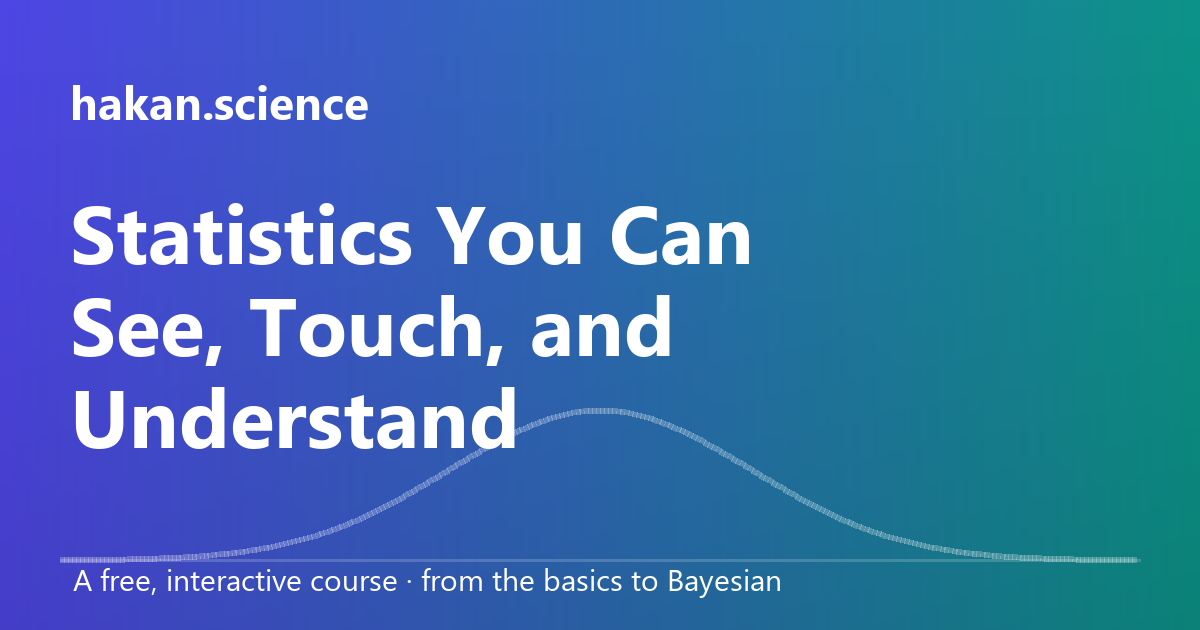
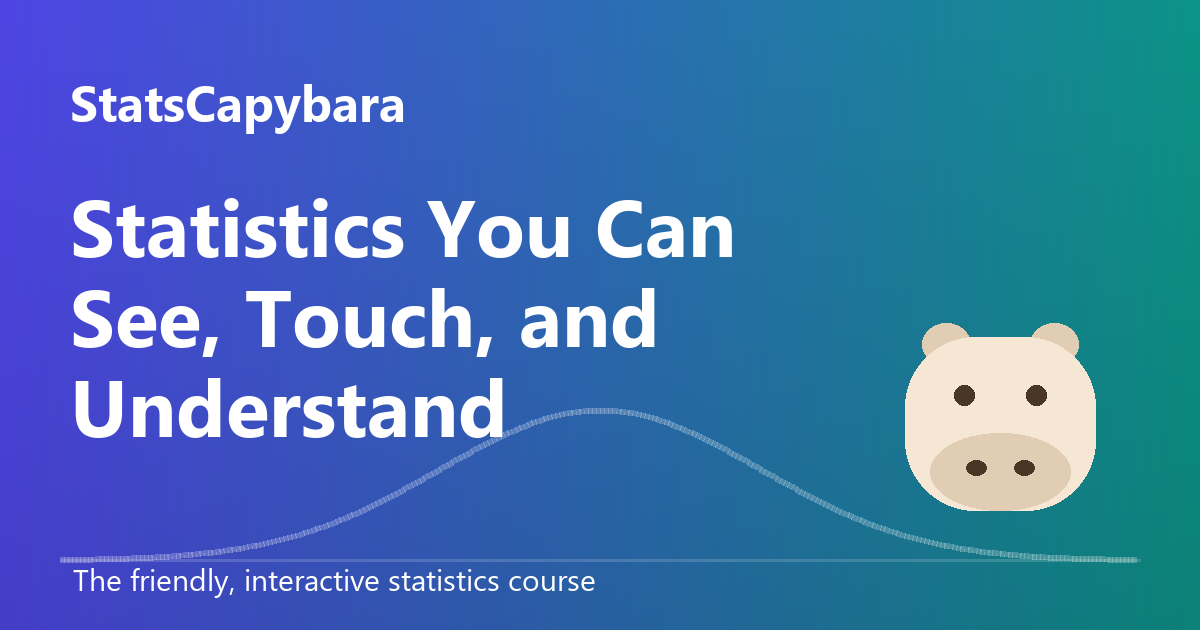
Rebrand to StatsCapybara: custom domain, mascot, interactive hero, Ko-fi
- Rename hakan.science -> StatsCapybara across all pages (titles, footers, OG/Twitter cards)
- CNAME for statscapybara.com; OG/Twitter absolute URLs -> https://statscapybara.com/
- Capybara mascot SVG logo in the nav brand; regenerated OG image with brand + capybara
- Homepage hero: brand eyebrow + approachable subheadline + a live bell curve with a bright
  orange 'Drag me to change the capybara population variance!' slider that warps in real time
- 'Buy me a coffee' Ko-fi button injected into every page's footer via site.js (lazy-loaded)

diff --git a/index.html b/index.html
@@ -3,18 +3,18 @@
 <head>
   <meta charset="utf-8" />
   <meta name="viewport" content="width=device-width, initial-scale=1" />
-  <title>hakan.science — Statistics You Can See, Touch, and Understand</title>
+  <title>StatsCapybara — Statistics You Can See, Touch, and Understand</title>
   <meta name="description" content="A free, interactive statistics course for people with no stats background. Learn by watching the ideas happen, not memorizing formulas." />
   <!-- Social share cards. If you move to a custom domain, update the absolute URLs below. -->
   <meta property="og:type" content="website" />
-  <meta property="og:title" content="hakan.science — Statistics You Can See, Touch, and Understand" />
+  <meta property="og:title" content="StatsCapybara — Statistics You Can See, Touch, and Understand" />
   <meta property="og:description" content="A free, interactive statistics course for visual learners — 38 hands-on lessons from the basics to Bayesian and multilevel models." />
-  <meta property="og:image" content="https://hkarsilar.github.io/Stats-Site-V1/assets/og.png" />
-  <meta property="og:url" content="https://hkarsilar.github.io/Stats-Site-V1/" />
+  <meta property="og:image" content="https://statscapybara.com/assets/og.png" />
+  <meta property="og:url" content="https://statscapybara.com/" />
   <meta name="twitter:card" content="summary_large_image" />
-  <meta name="twitter:title" content="hakan.science — Statistics You Can See, Touch, and Understand" />
+  <meta name="twitter:title" content="StatsCapybara — Statistics You Can See, Touch, and Understand" />
   <meta name="twitter:description" content="A free, interactive statistics course for visual learners — 38 hands-on lessons, basics to Bayesian." />
-  <meta name="twitter:image" content="https://hkarsilar.github.io/Stats-Site-V1/assets/og.png" />
+  <meta name="twitter:image" content="https://statscapybara.com/assets/og.png" />
   <link rel="icon" href="assets/favicon.ico" type="image/x-icon" />
   <link rel="stylesheet" href="assets/css/styles.css" />
   <!-- set theme before paint to avoid a flash -->
@@ -24,19 +24,36 @@
   <nav class="nav" id="nav"></nav>
 
   <main>
-    <!-- HERO (compact) -->
+    <!-- HERO -->
     <section class="hero" style="min-height:auto">
-      <div class="hero-inner animate-up" style="max-width:54rem;padding:3.25rem 1.5rem 2.25rem">
+      <div class="hero-inner animate-up" style="max-width:60rem;padding:2.25rem 1.5rem 1.75rem">
+        <p class="hero-eyebrow">
+          <svg viewBox="0 0 64 60" width="24" height="24" aria-hidden="true" style="vertical-align:-6px">
+            <ellipse cx="19" cy="15" rx="7" ry="6" fill="#9a6f43"/><ellipse cx="45" cy="15" rx="7" ry="6" fill="#9a6f43"/>
+            <rect x="9" y="14" width="46" height="40" rx="17" fill="#b3824f"/><ellipse cx="32" cy="44" rx="16" ry="12" fill="#9a6f43"/>
+            <circle cx="23" cy="31" r="2.7" fill="#3a2a1b"/><circle cx="41" cy="31" r="2.7" fill="#3a2a1b"/>
+            <ellipse cx="26.5" cy="45" rx="2.3" ry="1.6" fill="#3a2a1b"/><ellipse cx="37.5" cy="45" rx="2.3" ry="1.6" fill="#3a2a1b"/>
+          </svg>
+          Meet StatsCapybara — your chill guide to statistics
+        </p>
         <h1>Statistics You Can <span class="see">See</span>, <span class="touch">Touch</span>, and Understand</h1>
-        <p class="lead">A free, interactive course — <strong>38 hands-on lessons</strong> from the basics all the way to Bayesian and multilevel models. Don't just read the formulas; drag the sliders and watch the ideas happen.</p>
+        <p class="lead">The friendly stats course where every idea is a toy you can play with. No intimidating walls of formulas — just drag, poke, and watch it finally click. Go on, try it right now:</p>
+
+        <div class="hero-demo">
+          <canvas id="hero-bell"></canvas>
+          <div class="hero-slider">
+            <input type="range" id="var-slider" min="55" max="320" step="1" value="100" aria-label="capybara population variance" />
+            <label for="var-slider">Drag me to change the capybara population variance!</label>
+          </div>
+        </div>
+
         <div class="hero-cta">
-          <a class="btn btn-primary" href="stats-1/what-is-statistics/">
-            Start from the beginning
+          <a class="btn btn-primary" href="stats-1/what-is-statistics/">Start from the beginning
             <svg viewBox="0 0 24 24" fill="none" stroke="currentColor" stroke-width="2" stroke-linecap="round" stroke-linejoin="round"><line x1="5" y1="12" x2="19" y2="12"/><polyline points="12 5 19 12 12 19"/></svg>
           </a>
           <a class="btn btn-ghost" href="stats-1/central-limit-theorem/">Try a live demo</a>
         </div>
-        <p style="margin-top:1.6rem;font-size:.92rem;color:var(--text-muted)">4 courses · 38 interactive lessons · free forever, no sign-up</p>
+        <p style="margin-top:1.4rem;font-size:.92rem;color:var(--text-muted)">4 courses · 38 interactive lessons · free forever, no sign-up</p>
       </div>
     </section>
 
@@ -87,7 +104,7 @@
 
   <footer class="footer">
     <div class="container">
-      <span>© <span id="year"></span> Hakan Karsilar · hakan.science</span>
+      <span>© <span id="year"></span> Hakan Karsilar · StatsCapybara</span>
       <span>Made for visual learners.</span>
     </div>
   </footer>
@@ -95,5 +112,38 @@
   <script>document.getElementById('year').textContent = new Date().getFullYear();</script>
   <script src="assets/js/curriculum.js"></script>
   <script src="assets/js/site.js"></script>
+
+  <!-- ============ hero: live bell curve ============ -->
+  <script>
+  (function () {
+    var c = document.getElementById("hero-bell"); if (!c) return;
+    var slider = document.getElementById("var-slider"), ctx, W = 0, H = 230, sigma = 1;
+    function css(n) { return getComputedStyle(document.documentElement).getPropertyValue(n).trim(); }
+    function fit() { var r = window.devicePixelRatio || 1; W = c.clientWidth; c.width = W * r; c.height = H * r; c.style.height = H + "px"; ctx = c.getContext("2d"); ctx.setTransform(r, 0, 0, r, 0, 0); }
+    function draw() {
+      var lo = -4, hi = 4, baseY = H - 14, top = 16;
+      var maxPeak = 1 / (0.55 * Math.sqrt(2 * Math.PI));      // tallest possible (smallest sigma) sets the scale
+      var scale = (baseY - top) / maxPeak;
+      function pdf(x) { return Math.exp(-0.5 * x * x / (sigma * sigma)) / (sigma * Math.sqrt(2 * Math.PI)); }
+      ctx.clearRect(0, 0, W, H);
+      var grad = ctx.createLinearGradient(0, 0, W, 0);
+      grad.addColorStop(0, css("--primary")); grad.addColorStop(1, css("--secondary"));
+      // filled area
+      ctx.beginPath(); ctx.moveTo(0, baseY);
+      for (var px = 0; px <= W; px += 2) { var x = lo + (px / W) * (hi - lo); ctx.lineTo(px, baseY - pdf(x) * scale); }
+      ctx.lineTo(W, baseY); ctx.closePath(); ctx.globalAlpha = 0.18; ctx.fillStyle = grad; ctx.fill(); ctx.globalAlpha = 1;
+      // curve
+      ctx.beginPath();
+      for (var p2 = 0; p2 <= W; p2 += 2) { var xx = lo + (p2 / W) * (hi - lo); var y = baseY - pdf(xx) * scale; if (p2 === 0) ctx.moveTo(p2, y); else ctx.lineTo(p2, y); }
+      ctx.strokeStyle = css("--primary"); ctx.lineWidth = 3.5; ctx.lineJoin = "round"; ctx.stroke();
+      // baseline
+      ctx.strokeStyle = css("--border"); ctx.lineWidth = 1; ctx.beginPath(); ctx.moveTo(0, baseY + 0.5); ctx.lineTo(W, baseY + 0.5); ctx.stroke();
+    }
+    slider.addEventListener("input", function () { sigma = +slider.value / 100; draw(); });
+    window.addEventListener("resize", function () { fit(); draw(); });
+    new MutationObserver(draw).observe(document.documentElement, { attributes: true, attributeFilter: ["data-theme"] });
+    fit(); draw();
+  })();
+  </script>
 </body>
 </html>

diff --git a/assets/js/site.js b/assets/js/site.js
@@ -12,6 +12,18 @@
      matter what the repo/folder is named or how deep it's hosted. */
   var BASE = (document.body && document.body.getAttribute("data-section")) ? "../../" : "";
 
+  /* ---------- mascot ---------- */
+  function capy(size) {
+    var s = size || 26;
+    return '<svg viewBox="0 0 64 60" width="' + s + '" height="' + s + '" aria-hidden="true" style="vertical-align:-6px;flex-shrink:0">' +
+      '<ellipse cx="19" cy="15" rx="7" ry="6" fill="#9a6f43"/><ellipse cx="45" cy="15" rx="7" ry="6" fill="#9a6f43"/>' +
+      '<rect x="9" y="14" width="46" height="40" rx="17" fill="#b3824f"/>' +
+      '<ellipse cx="32" cy="44" rx="16" ry="12" fill="#9a6f43"/>' +
+      '<circle cx="23" cy="31" r="2.7" fill="#3a2a1b"/><circle cx="41" cy="31" r="2.7" fill="#3a2a1b"/>' +
+      '<ellipse cx="26.5" cy="45" rx="2.3" ry="1.6" fill="#3a2a1b"/><ellipse cx="37.5" cy="45" rx="2.3" ry="1.6" fill="#3a2a1b"/>' +
+      '</svg>';
+  }
+
   /* ---------- theme ---------- */
   var root = document.documentElement;
   function setTheme(t) {
@@ -33,7 +45,7 @@
     if (!nav) return;
     nav.innerHTML =
       '<div class="nav-inner">' +
-        '<a class="brand" href="' + (BASE || "./") + '">hakan<span class="dot">.</span>science</a>' +
+        '<a class="brand" href="' + (BASE || "./") + '" style="display:inline-flex;align-items:center;gap:.45rem">' + capy(28) + 'Stats<span class="dot">Capybara</span></a>' +
         '<div class="nav-links">' +
           '<a class="nav-link hide-mobile" href="' + BASE + '#curriculum">Curriculum</a>' +
           '<a class="nav-link" href="' + BASE + 'quiz.html">Quiz</a>' +
@@ -113,12 +125,25 @@
     host.innerHTML = html;
   }
 
+  /* ---------- "Buy me a coffee" (every page) ---------- */
+  function renderKofi() {
+    var c = document.querySelector(".footer .container");
+    if (!c || c.querySelector(".kofi")) return;
+    var a = document.createElement("a");
+    a.className = "kofi"; a.href = "https://ko-fi.com/M3E322A3ML"; a.target = "_blank"; a.rel = "noopener";
+    a.style.cssText = "display:inline-flex;align-items:center;order:2";
+    a.innerHTML = '<img height="34" loading="lazy" style="border:0;height:34px" src="https://storage.ko-fi.com/cdn/kofi2.png?v=6" alt="Buy Me a Coffee at ko-fi.com" />';
+    // keep it centered between the two footer spans
+    c.insertBefore(a, c.lastElementChild);
+  }
+
   /* ---------- go ---------- */
   function init() {
     renderNav();
     renderCurriculum();
     renderSidebar();
     renderLessonNav();
+    renderKofi();
   }
   if (document.readyState === "loading") document.addEventListener("DOMContentLoaded", init);
   else init();

diff --git a/assets/css/styles.css b/assets/css/styles.css
@@ -139,7 +139,14 @@ main { padding-top: var(--nav-h); }
 .hero h1 .see { color: var(--primary); }
 .hero h1 .touch { color: var(--secondary); }
 .hero p.lead { font-size: clamp(1.05rem, 2.2vw, 1.3rem); color: var(--text-muted); margin: 1.5rem auto 0; max-width: 38rem; }
-.hero-cta { margin-top: 2.5rem; display: flex; flex-wrap: wrap; gap: 1rem; justify-content: center; }
+.hero-cta { margin-top: 2.25rem; display: flex; flex-wrap: wrap; gap: 1rem; justify-content: center; }
+.hero-eyebrow { display: inline-flex; align-items: center; gap: .45rem; font-weight: 600; color: var(--text-muted); font-size: .98rem; margin: 0 0 .75rem; }
+.hero-demo { margin: 1.75rem auto .25rem; max-width: 46rem; }
+.hero-demo canvas { width: 100%; display: block; }
+.hero-slider input[type="range"] { -webkit-appearance: none; appearance: none; width: min(34rem, 92%); height: 8px; border-radius: 6px; background: color-mix(in srgb, #f97316 25%, var(--surface-2)); accent-color: #f97316; outline: none; cursor: pointer; }
+.hero-slider input[type="range"]::-webkit-slider-thumb { -webkit-appearance: none; appearance: none; width: 26px; height: 26px; border-radius: 50%; background: #f97316; border: 3px solid var(--surface); box-shadow: 0 2px 8px rgba(249,115,22,.5); cursor: grab; }
+.hero-slider input[type="range"]::-moz-range-thumb { width: 24px; height: 24px; border-radius: 50%; background: #f97316; border: 3px solid var(--surface); cursor: grab; }
+.hero-slider label { display: block; margin-top: .7rem; color: #f97316; font-weight: 700; font-size: 1.02rem; }
 
 /* ---------- sections ---------- */
 .section { padding: 5.5rem 0; }

diff --git a/stats-3/multicollinearity-and-variable-selection/index.html b/stats-3/multicollinearity-and-variable-selection/index.html
@@ -3,7 +3,7 @@
 <head>
   <meta charset="utf-8" />
   <meta name="viewport" content="width=device-width, initial-scale=1" />
-  <title>Multicollinearity & Variable Selection — hakan.science</title>
+  <title>Multicollinearity & Variable Selection — StatsCapybara</title>
   <meta name="description" content="When predictors overlap, regression can't tell their effects apart and the coefficients go haywire. Crank up the correlation and watch the estimates scatter as the VIF explodes." />
   <link rel="icon" href="../../assets/favicon.ico" type="image/x-icon" />
   <link rel="stylesheet" href="../../assets/css/styles.css" />
@@ -79,7 +79,7 @@
   </main>
 
   <footer class="footer">
-    <div class="container"><span>© <span id="year"></span> Hakan Karsilar · hakan.science</span><span>Made for visual learners.</span></div>
+    <div class="container"><span>© <span id="year"></span> Hakan Karsilar · StatsCapybara</span><span>Made for visual learners.</span></div>
   </footer>
 
   <script>document.getElementById('year').textContent = new Date().getFullYear();</script>

diff --git a/stats-3/categorical-predictors-and-dummy-coding/index.html b/stats-3/categorical-predictors-and-dummy-coding/index.html
@@ -3,7 +3,7 @@
 <head>
   <meta charset="utf-8" />
   <meta name="viewport" content="width=device-width, initial-scale=1" />
-  <title>Categorical Predictors & Dummy Coding — hakan.science</title>
+  <title>Categorical Predictors & Dummy Coding — StatsCapybara</title>
   <meta name="description" content="Regression needs numbers, but groups aren't numeric. Dummy coding turns categories into 0/1 variables whose coefficients are just differences from a reference group." />
   <link rel="icon" href="../../assets/favicon.ico" type="image/x-icon" />
   <link rel="stylesheet" href="../../assets/css/styles.css" />
@@ -77,7 +77,7 @@
   </main>
 
   <footer class="footer">
-    <div class="container"><span>© <span id="year"></span> Hakan Karsilar · hakan.science</span><span>Made for visual learners.</span></div>
+    <div class="container"><span>© <span id="year"></span> Hakan Karsilar · StatsCapybara</span><span>Made for visual learners.</span></div>
   </footer>
 
   <script>document.getElementById('year').textContent = new Date().getFullYear();</script>

diff --git a/stats-4/mixed-and-multilevel-models/index.html b/stats-4/mixed-and-multilevel-models/index.html
@@ -3,7 +3,7 @@
 <head>
   <meta charset="utf-8" />
   <meta name="viewport" content="width=device-width, initial-scale=1" />
-  <title>Mixed & Multilevel Models (GLMMs) — hakan.science</title>
+  <title>Mixed & Multilevel Models (GLMMs) — StatsCapybara</title>
   <meta name="description" content="When data is grouped, mixed models share information across groups — pulling noisy estimates toward the overall mean. Watch partial pooling and shrinkage in action." />
   <link rel="icon" href="../../assets/favicon.ico" type="image/x-icon" />
   <link rel="stylesheet" href="../../assets/css/styles.css" />
@@ -74,7 +74,7 @@
   </main>
 
   <footer class="footer">
-    <div class="container"><span>© <span id="year"></span> Hakan Karsilar · hakan.science</span><span>Made for visual learners.</span></div>
+    <div class="container"><span>© <span id="year"></span> Hakan Karsilar · StatsCapybara</span><span>Made for visual learners.</span></div>
   </footer>
 
   <script>document.getElementById('year').textContent = new Date().getFullYear();</script>

diff --git a/stats-3/power-analysis-for-complex-designs/index.html b/stats-3/power-analysis-for-complex-designs/index.html
@@ -3,7 +3,7 @@
 <head>
   <meta charset="utf-8" />
   <meta name="viewport" content="width=device-width, initial-scale=1" />
-  <title>Power Analysis for Complex Designs — hakan.science</title>
+  <title>Power Analysis for Complex Designs — StatsCapybara</title>
   <meta name="description" content="Before collecting data, work out how many participants you need. Set an effect size and target power, and read the required sample size off the power curve." />
   <link rel="icon" href="../../assets/favicon.ico" type="image/x-icon" />
   <link rel="stylesheet" href="../../assets/css/styles.css" />
@@ -82,7 +82,7 @@
   </main>
 
   <footer class="footer">
-    <div class="container"><span>© <span id="year"></span> Hakan Karsilar · hakan.science</span><span>Made for visual learners.</span></div>
+    <div class="container"><span>© <span id="year"></span> Hakan Karsilar · StatsCapybara</span><span>Made for visual learners.</span></div>
   </footer>
 
   <script>document.getElementById('year').textContent = new Date().getFullYear();</script>

diff --git a/stats-1/one-sample-and-paired-t-tests/index.html b/stats-1/one-sample-and-paired-t-tests/index.html
@@ -3,7 +3,7 @@
 <head>
   <meta charset="utf-8" />
   <meta name="viewport" content="width=device-width, initial-scale=1" />
-  <title>One-Sample & Paired t-Tests — hakan.science</title>
+  <title>One-Sample & Paired t-Tests — StatsCapybara</title>
   <meta name="description" content="When you estimate the standard deviation from data, the normal curve becomes the t-distribution. See how degrees of freedom fatten the tails and move the critical value." />
   <link rel="icon" href="../../assets/favicon.ico" type="image/x-icon" />
   <link rel="stylesheet" href="../../assets/css/styles.css" />
@@ -77,7 +77,7 @@
   </main>
 
   <footer class="footer">
-    <div class="container"><span>© <span id="year"></span> Hakan Karsilar · hakan.science</span><span>Made for visual learners.</span></div>
+    <div class="container"><span>© <span id="year"></span> Hakan Karsilar · StatsCapybara</span><span>Made for visual learners.</span></div>
   </footer>
 
   <script>document.getElementById('year').textContent = new Date().getFullYear();</script>

diff --git a/stats-3/mediation-and-indirect-effects/index.html b/stats-3/mediation-and-indirect-effects/index.html
@@ -3,7 +3,7 @@
 <head>
   <meta charset="utf-8" />
   <meta name="viewport" content="width=device-width, initial-scale=1" />
-  <title>Mediation & Indirect Effects — hakan.science</title>
+  <title>Mediation & Indirect Effects — StatsCapybara</title>
   <meta name="description" content="Mediation explains HOW one thing affects another, through a mechanism in between. Adjust the path coefficients and watch the indirect effect flow through the mediator." />
   <link rel="icon" href="../../assets/favicon.ico" type="image/x-icon" />
   <link rel="stylesheet" href="../../assets/css/styles.css" />
@@ -77,7 +77,7 @@
   </main>
 
   <footer class="footer">
-    <div class="container"><span>© <span id="year"></span> Hakan Karsilar · hakan.science</span><span>Made for visual learners.</span></div>
+    <div class="container"><span>© <span id="year"></span> Hakan Karsilar · StatsCapybara</span><span>Made for visual learners.</span></div>
   </footer>
 
   <script>document.getElementById('year').textContent = new Date().getFullYear();</script>

diff --git a/stats-2/repeated-measures-anova/index.html b/stats-2/repeated-measures-anova/index.html
@@ -3,7 +3,7 @@
 <head>
   <meta charset="utf-8" />
   <meta name="viewport" content="width=device-width, initial-scale=1" />
-  <title>Repeated Measures ANOVA — hakan.science</title>
+  <title>Repeated Measures ANOVA — StatsCapybara</title>
   <meta name="description" content="Measuring the same people repeatedly lets you subtract out their individual differences — revealing a condition effect that between-subjects designs would drown in noise." />
   <link rel="icon" href="../../assets/favicon.ico" type="image/x-icon" />
   <link rel="stylesheet" href="../../assets/css/styles.css" />
@@ -78,7 +78,7 @@
   </main>
 
   <footer class="footer">
-    <div class="container"><span>© <span id="year"></span> Hakan Karsilar · hakan.science</span><span>Made for visual learners.</span></div>
+    <div class="container"><span>© <span id="year"></span> Hakan Karsilar · StatsCapybara</span><span>Made for visual learners.</span></div>
   </footer>
 
   <script>document.getElementById('year').textContent = new Date().getFullYear();</script>

diff --git a/stats-4/bayesian-estimation/index.html b/stats-4/bayesian-estimation/index.html
@@ -3,7 +3,7 @@
 <head>
   <meta charset="utf-8" />
   <meta name="viewport" content="width=device-width, initial-scale=1" />
-  <title>Bayesian Estimation & Credible Intervals — hakan.science</title>
+  <title>Bayesian Estimation & Credible Intervals — StatsCapybara</title>
   <meta name="description" content="Turn a posterior distribution into concrete answers: a point estimate and a credible interval you can actually interpret as a probability." />
   <link rel="icon" href="../../assets/favicon.ico" type="image/x-icon" />
   <link rel="stylesheet" href="../../assets/css/styles.css" />
@@ -77,7 +77,7 @@
   </main>
 
   <footer class="footer">
-    <div class="container"><span>© <span id="year"></span> Hakan Karsilar · hakan.science</span><span>Made for visual learners.</span></div>
+    <div class="container"><span>© <span id="year"></span> Hakan Karsilar · StatsCapybara</span><span>Made for visual learners.</span></div>
   </footer>
 
   <script>document.getElementById('year').textContent = new Date().getFullYear();</script>

diff --git a/stats-3/interactions-in-regression/index.html b/stats-3/interactions-in-regression/index.html
@@ -3,7 +3,7 @@
 <head>
   <meta charset="utf-8" />
   <meta name="viewport" content="width=device-width, initial-scale=1" />
-  <title>Interactions in Regression — hakan.science</title>
+  <title>Interactions in Regression — StatsCapybara</title>
   <meta name="description" content="An interaction term lets the slope of one predictor depend on another. Slide the interaction and watch two regression lines go from parallel to fanning to crossing." />
   <link rel="icon" href="../../assets/favicon.ico" type="image/x-icon" />
   <link rel="stylesheet" href="../../assets/css/styles.css" />
@@ -70,7 +70,7 @@
   </main>
 
   <footer class="footer">
-    <div class="container"><span>© <span id="year"></span> Hakan Karsilar · hakan.science</span><span>Made for visual learners.</span></div>
+    <div class="container"><span>© <span id="year"></span> Hakan Karsilar · StatsCapybara</span><span>Made for visual learners.</span></div>
   </footer>
 
   <script>document.getElementById('year').textContent = new Date().getFullYear();</script>
